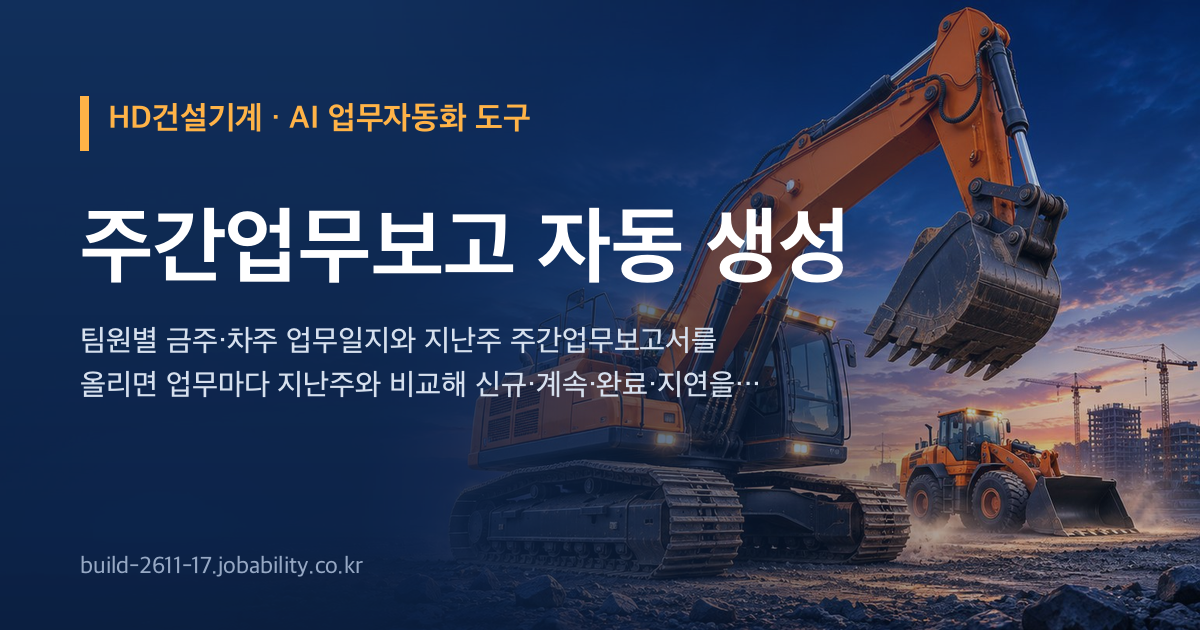
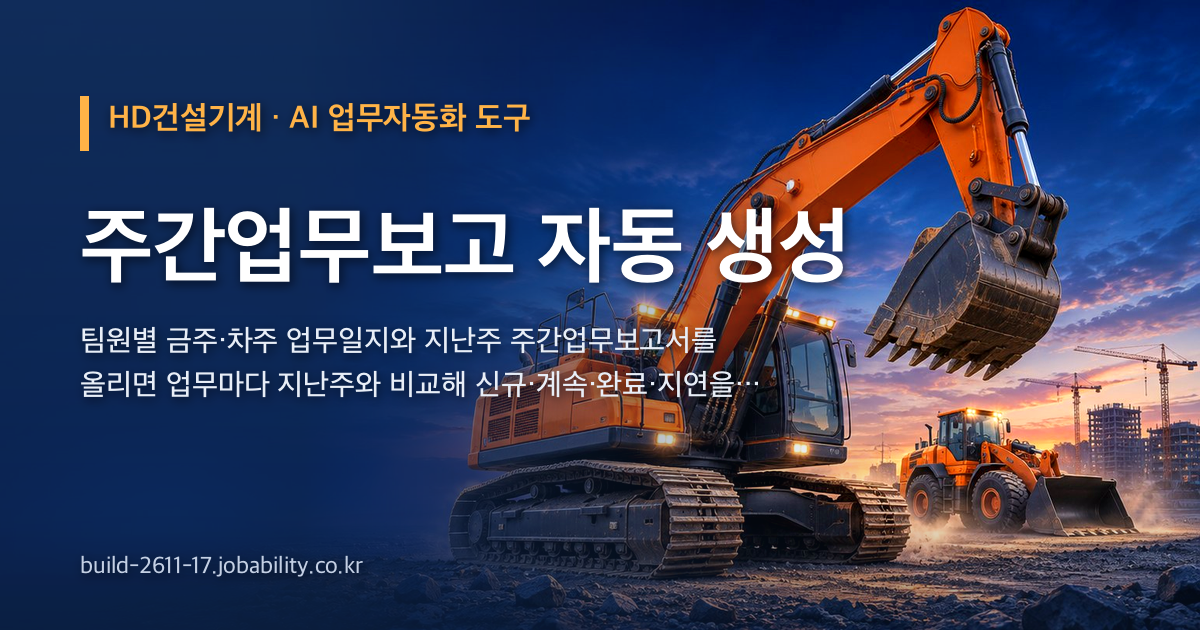
공유 그림 다시(사진 또렷하게) · 판 2026-11-13.12

diff --git a/index.html b/index.html
@@ -12,8 +12,8 @@
 <meta property="og:title" content="HD건설기계 · 주간업무보고 자동 생성">
 <meta property="og:description" content="팀원별 금주·차주 업무일지와 지난주 주간업무보고서를 올리면 업무마다 지난주와 비교해 신규·계속·완료·지연을 나누고, 비슷한 업무를 통합하고, 복리후생/총무 · 사회공헌/의전 · 자산 · 비상계획 4개 업무 분야로 자동 분류해 전체 요약 → 분야별 금주 실적·차주 계획 → 종합 관리사항">
 <meta property="og:url" content="https://build-2611-17.jobability.co.kr/">
-<meta property="og:image" content="https://build-2611-17.jobability.co.kr/og-image.png">
-<meta property="og:image:secure_url" content="https://build-2611-17.jobability.co.kr/og-image.png">
+<meta property="og:image" content="https://build-2611-17.jobability.co.kr/og-image.png?v=2">
+<meta property="og:image:secure_url" content="https://build-2611-17.jobability.co.kr/og-image.png?v=2">
 <meta property="og:image:type" content="image/png">
 <meta property="og:image:width" content="1200">
 <meta property="og:image:height" content="630">
@@ -22,7 +22,7 @@
 <meta name="twitter:card" content="summary_large_image">
 <meta name="twitter:title" content="HD건설기계 · 주간업무보고 자동 생성">
 <meta name="twitter:description" content="팀원별 금주·차주 업무일지와 지난주 주간업무보고서를 올리면 업무마다 지난주와 비교해 신규·계속·완료·지연을 나누고, 비슷한 업무를 통합하고, 복리후생/총무 · 사회공헌/의전 · 자산 · 비상계획 4개 업무 분야로 자동 분류해 전체 요약 → 분야별 금주 실적·차주 계획 → 종합 관리사항">
-<meta name="twitter:image" content="https://build-2611-17.jobability.co.kr/og-image.png">
+<meta name="twitter:image" content="https://build-2611-17.jobability.co.kr/og-image.png?v=2">
 <!-- /seo-kit -->
 <meta name="description" content="팀원별 금주·차주 업무일지와 지난주 주간업무보고서를 올리면 업무마다 지난주와 비교해 신규·계속·완료·지연을 나누고, 비슷한 업무를 통합하고, 복리후생/총무 · 사회공헌/의전 · 자산 · 비상계획 4개 업무 분야로 자동 분류해 전체 요약 → 분야별 금주 실적·차주 계획 → 종합 관리사항 순서의 팀장 보고용 주간업무보고서를 만드는 도구입니다.">
 <link rel="icon" href="favicon.svg" type="image/svg+xml">
@@ -30,9 +30,9 @@
 <link rel="stylesheet" href="css/app.css">
 <!-- auth-kit: 로그인 전에는 도구 화면을 감춘다(js/auth.js 가 판정 뒤 푼다) -->
 <script>document.documentElement.classList.add('auth-lock')</script>
-<link rel="stylesheet" href="css/auth.css?v=2026-11-13.11">
-<link rel="stylesheet" href="css/board.css?v=2026-11-13.11">
-<link rel="stylesheet" href="css/kit-build.css?v=2026-11-13.11">
+<link rel="stylesheet" href="css/auth.css?v=2026-11-13.12">
+<link rel="stylesheet" href="css/board.css?v=2026-11-13.12">
+<link rel="stylesheet" href="css/kit-build.css?v=2026-11-13.12">
 <!-- /auth-kit -->
 </head>
 <body>
@@ -201,11 +201,11 @@
 <script src="js/report.js"></script>
 <script src="js/app.js"></script>
 <!-- auth-kit: 로그인 · 사용 신청 · 승인 · 게시판(키트 정본 data10-00/kit/auth, 적용 build-2611-00/tools/kit) -->
-<script src="vendor/supabase.js?v=2026-11-13.11"></script>
-<script src="js/auth-config.js?v=2026-11-13.11"></script>
-<script src="js/kit-build.js?v=2026-11-13.11"></script>
-<script src="js/board.js?v=2026-11-13.11"></script>
-<script src="js/auth.js?v=2026-11-13.11"></script>
+<script src="vendor/supabase.js?v=2026-11-13.12"></script>
+<script src="js/auth-config.js?v=2026-11-13.12"></script>
+<script src="js/kit-build.js?v=2026-11-13.12"></script>
+<script src="js/board.js?v=2026-11-13.12"></script>
+<script src="js/auth.js?v=2026-11-13.12"></script>
 <!-- /auth-kit -->
 </body>
 </html>

diff --git a/guide.html b/guide.html
@@ -12,8 +12,8 @@
 <meta property="og:title" content="사용법 — 주간업무보고 자동 생성">
 <meta property="og:description" content="팀원별 금주·차주 업무일지와 지난주 주간업무보고서를 올리면 업무마다 지난주와 비교해 신규·계속·완료·지연을 나누고, 비슷한 업무를 통합하고, 복리후생/총무 · 사회공헌/의전 · 자산 · 비상계획 4개 업무 분야로 자동 분류해 전체 요약 → 분야별 금주 실적·차주 계획 → 종합 관리사항">
 <meta property="og:url" content="https://build-2611-17.jobability.co.kr/guide.html">
-<meta property="og:image" content="https://build-2611-17.jobability.co.kr/og-image.png">
-<meta property="og:image:secure_url" content="https://build-2611-17.jobability.co.kr/og-image.png">
+<meta property="og:image" content="https://build-2611-17.jobability.co.kr/og-image.png?v=2">
+<meta property="og:image:secure_url" content="https://build-2611-17.jobability.co.kr/og-image.png?v=2">
 <meta property="og:image:type" content="image/png">
 <meta property="og:image:width" content="1200">
 <meta property="og:image:height" content="630">
@@ -22,7 +22,7 @@
 <meta name="twitter:card" content="summary_large_image">
 <meta name="twitter:title" content="사용법 — 주간업무보고 자동 생성">
 <meta name="twitter:description" content="팀원별 금주·차주 업무일지와 지난주 주간업무보고서를 올리면 업무마다 지난주와 비교해 신규·계속·완료·지연을 나누고, 비슷한 업무를 통합하고, 복리후생/총무 · 사회공헌/의전 · 자산 · 비상계획 4개 업무 분야로 자동 분류해 전체 요약 → 분야별 금주 실적·차주 계획 → 종합 관리사항">
-<meta name="twitter:image" content="https://build-2611-17.jobability.co.kr/og-image.png">
+<meta name="twitter:image" content="https://build-2611-17.jobability.co.kr/og-image.png?v=2">
 <!-- /seo-kit -->
 <link rel="icon" href="favicon.svg" type="image/svg+xml">
 <link rel="stylesheet" href="css/style.css">

diff --git a/plan.html b/plan.html
@@ -12,8 +12,8 @@
 <meta property="og:title" content="기획서 — 주간업무보고 자동 생성">
 <meta property="og:description" content="팀원별 금주·차주 업무일지와 지난주 주간업무보고서를 올리면 업무마다 지난주와 비교해 신규·계속·완료·지연을 나누고, 비슷한 업무를 통합하고, 복리후생/총무 · 사회공헌/의전 · 자산 · 비상계획 4개 업무 분야로 자동 분류해 전체 요약 → 분야별 금주 실적·차주 계획 → 종합 관리사항">
 <meta property="og:url" content="https://build-2611-17.jobability.co.kr/plan.html">
-<meta property="og:image" content="https://build-2611-17.jobability.co.kr/og-image.png">
-<meta property="og:image:secure_url" content="https://build-2611-17.jobability.co.kr/og-image.png">
+<meta property="og:image" content="https://build-2611-17.jobability.co.kr/og-image.png?v=2">
+<meta property="og:image:secure_url" content="https://build-2611-17.jobability.co.kr/og-image.png?v=2">
 <meta property="og:image:type" content="image/png">
 <meta property="og:image:width" content="1200">
 <meta property="og:image:height" content="630">
@@ -22,7 +22,7 @@
 <meta name="twitter:card" content="summary_large_image">
 <meta name="twitter:title" content="기획서 — 주간업무보고 자동 생성">
 <meta name="twitter:description" content="팀원별 금주·차주 업무일지와 지난주 주간업무보고서를 올리면 업무마다 지난주와 비교해 신규·계속·완료·지연을 나누고, 비슷한 업무를 통합하고, 복리후생/총무 · 사회공헌/의전 · 자산 · 비상계획 4개 업무 분야로 자동 분류해 전체 요약 → 분야별 금주 실적·차주 계획 → 종합 관리사항">
-<meta name="twitter:image" content="https://build-2611-17.jobability.co.kr/og-image.png">
+<meta name="twitter:image" content="https://build-2611-17.jobability.co.kr/og-image.png?v=2">
 <!-- /seo-kit -->
 <link rel="icon" href="favicon.svg" type="image/svg+xml">
 <link rel="stylesheet" href="css/style.css">

diff --git a/report.html b/report.html
@@ -12,8 +12,8 @@
 <meta property="og:title" content="평가보고서 — 주간업무보고 자동 생성">
 <meta property="og:description" content="주간업무보고 자동 생성 점검 · 평가보고서(2026-11-13) — 사이트 점검, 기능과 시험, 인계 준비, 판 이력, 한계.">
 <meta property="og:url" content="https://build-2611-17.jobability.co.kr/report.html">
-<meta property="og:image" content="https://build-2611-17.jobability.co.kr/og-image.png">
-<meta property="og:image:secure_url" content="https://build-2611-17.jobability.co.kr/og-image.png">
+<meta property="og:image" content="https://build-2611-17.jobability.co.kr/og-image.png?v=2">
+<meta property="og:image:secure_url" content="https://build-2611-17.jobability.co.kr/og-image.png?v=2">
 <meta property="og:image:type" content="image/png">
 <meta property="og:image:width" content="1200">
 <meta property="og:image:height" content="630">
@@ -22,7 +22,7 @@
 <meta name="twitter:card" content="summary_large_image">
 <meta name="twitter:title" content="평가보고서 — 주간업무보고 자동 생성">
 <meta name="twitter:description" content="주간업무보고 자동 생성 점검 · 평가보고서(2026-11-13) — 사이트 점검, 기능과 시험, 인계 준비, 판 이력, 한계.">
-<meta name="twitter:image" content="https://build-2611-17.jobability.co.kr/og-image.png">
+<meta name="twitter:image" content="https://build-2611-17.jobability.co.kr/og-image.png?v=2">
 <!-- /seo-kit -->
 <meta name="description" content="주간업무보고 자동 생성 점검 · 평가보고서(2026-11-13) — 사이트 점검, 기능과 시험, 인계 준비, 판 이력, 한계.">
 <link rel="icon" href="favicon.svg" type="image/svg+xml">
